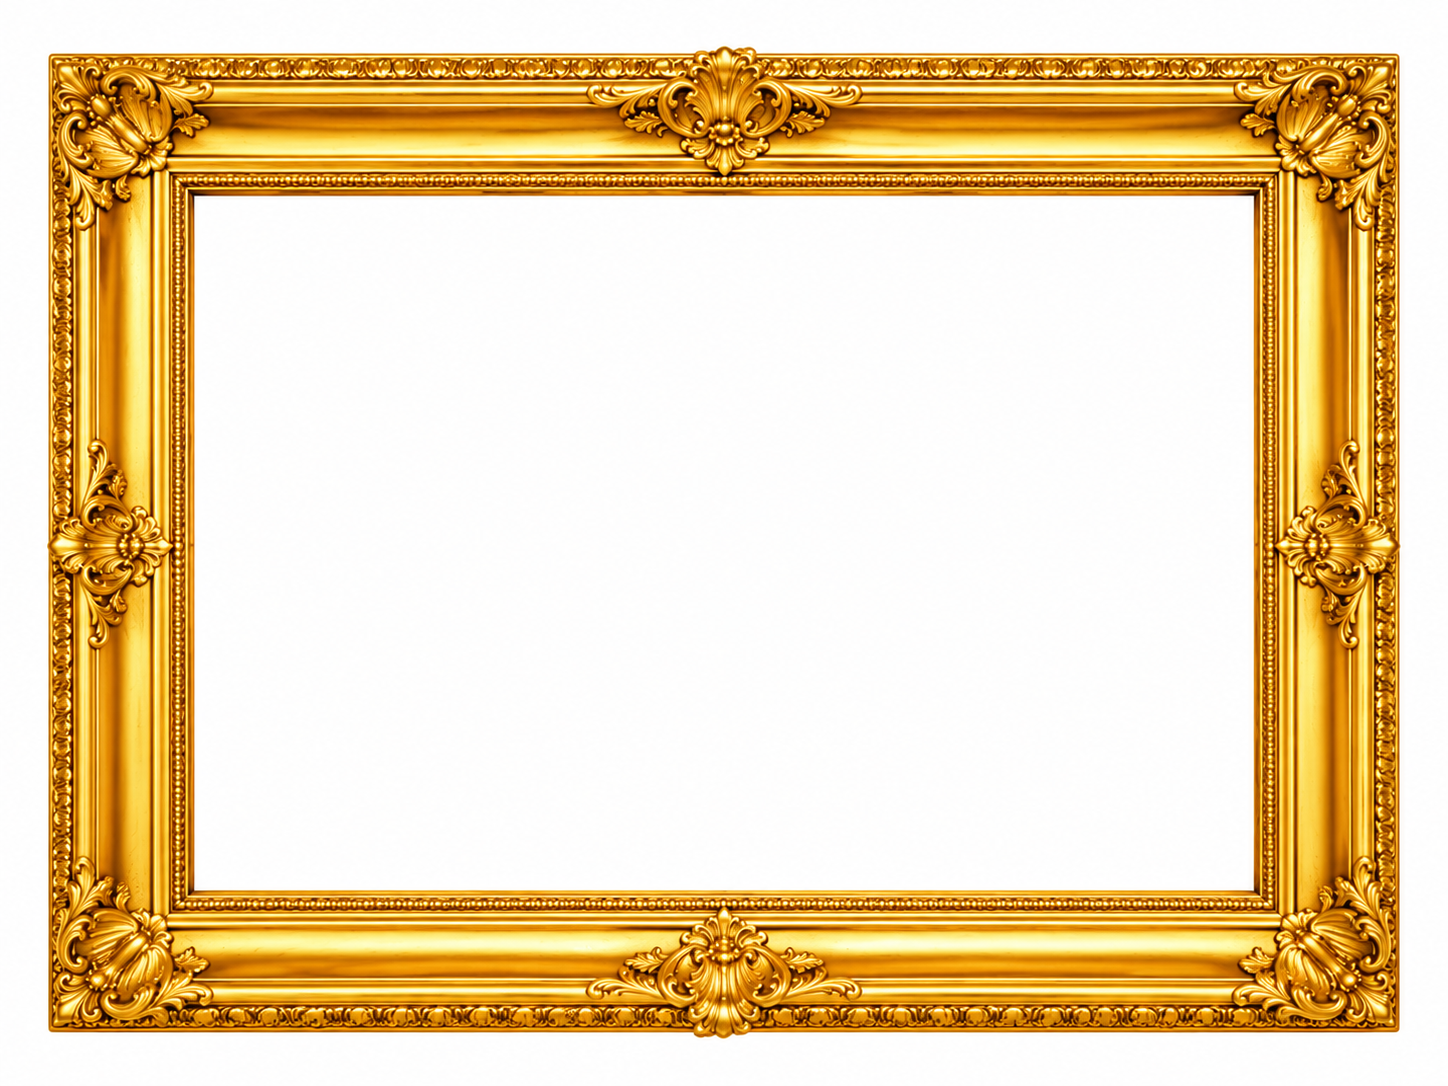
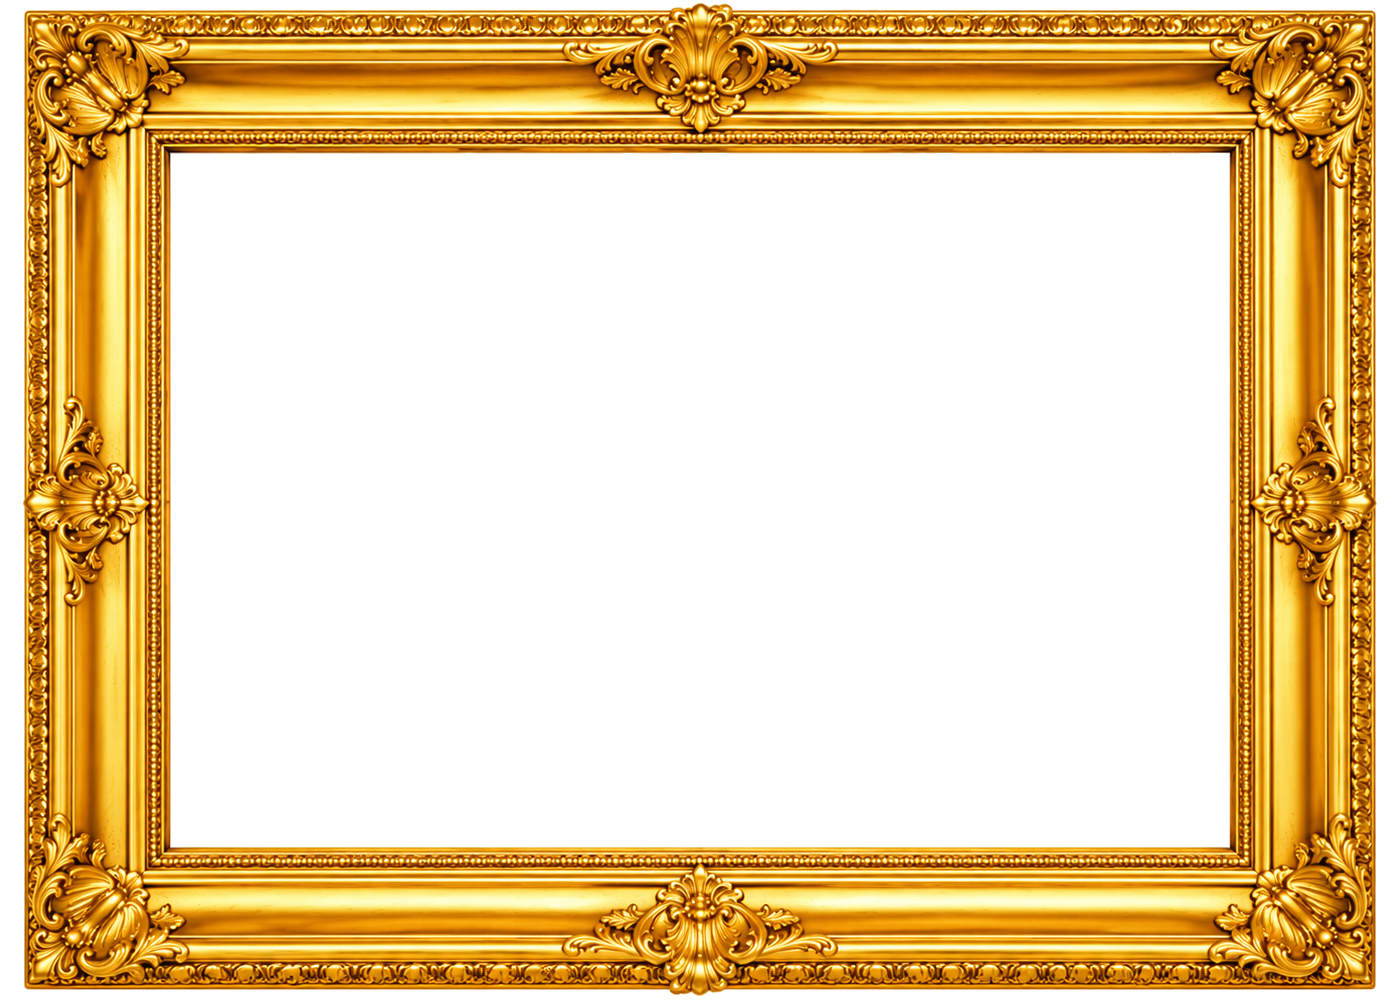
changed frame

diff --git a/src/pages/Archive.css b/src/pages/Archive.css
@@ -62,13 +62,13 @@
 
         .frame3 {
           position: absolute;
-          left: 17%;
+          left: 30%;
           top: 5%;
         }
 
         .frame4 {
           position: absolute;
-          left: 17%;
+          left: 30%;
           top: 20%;
         }
 

diff --git a/src/App.css b/src/App.css
@@ -526,6 +526,7 @@ ul {
 
   .box-handwriting {
     width: clamp(400px, calc(300px + 20vw), 700px);
+    margin-block: 3rem;
 
     .handwriting {
       width: 100%;
@@ -540,11 +541,13 @@ ul {
     padding: 10px 40px;
     background: #Fff;
     border-radius: 40px;
+    transition: all 1s;
   }
 
   .btn-contact:hover {
     box-shadow: 5px 5px 5px #00000054;
     transform: translate(-10px, -10px);
+    transition: all 1s;
   }
 }
 